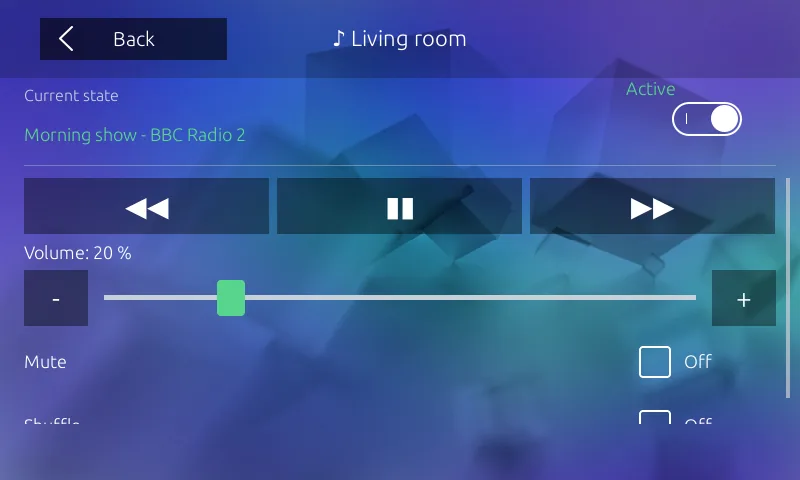
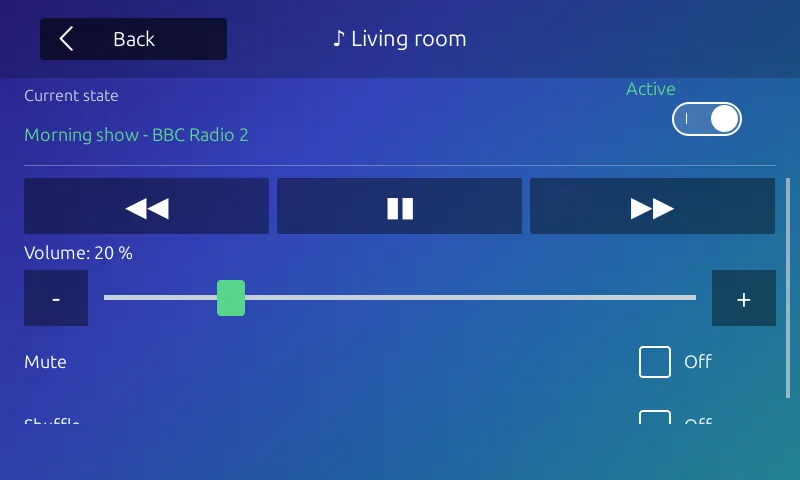
docs: render the display pictures on a neutral background without vendor files
The owner decided that the documentation shows only the integration's own
pages, rendered by us, with no firmware artwork in them.

The thirteen kept display pictures are new renders of this tree's pages:
applied by qml_patch.sh to a copy of the 1.7.19 skin and run on the
firmware's Qt 4.8 libraries under qemu-arm, English, 800x480, with the page
data built by the integration's dashboard code from example entities. In
the render copy of the skin, the wallpaper is replaced by a plain blue to
teal gradient generated for the render, and every skin graphic the pages
load (button and list backgrounds, switch track and knob, on/off marks,
arrows, key, loading ring, bottom bar) is replaced by a similar shape drawn
for the render; the fonts are the host's own Ubuntu Light and DejaVu Sans.
A syscall trace of the renders shows no other image or font file opened.
The Integration tab picture is cropped to the tab content, without the
vendor Settings frame.

Dropped, because they show vendor pages: the home page in both button
layouts (display-home-stock-en, display-c300x-dashboard-en) and the
vendor Generals tab (display-settings-tone-buttons-en). The README shows
the start page instead of the home page; display.md names the two home
page buttons in its introduction instead of picturing them.

Checked with the documentation tests, scripts/check_repo.py and ruff.
Nothing was seen on a station.

diff --git a/docs/display.md b/docs/display.md
@@ -5,14 +5,10 @@ tiles for your entities, an energy page, an agenda, departure checks, an Alarmo
 page and notices from automations. They are native station pages, not the
 Lovelace card or an embedded Home Assistant dashboard. Display pages run on
 firmware 1.7.x, 2.0.2 and 3.0.6
-([Display Patch on Firmware 3.0.6](#display-patch-on-firmware-306)).
-
-<table>
-  <tr>
-    <td align="center"><strong>Home page buttons: Stock</strong><br><img src="images/readme/display-home-stock-en.webp" alt="C300X home page in the Stock layout: the Alarm and Home Assistant buttons among the station's own buttons, wrapped into two rows" width="360"></td>
-    <td align="center"><strong>Home page buttons: Fixed side by side</strong><br><img src="images/readme/display-c300x-dashboard-en.webp" alt="C300X home page with the Alarm and Home Assistant buttons in fixed places next to each other after Settings" width="360"></td>
-  </tr>
-</table>
+([Display Patch on Firmware 3.0.6](#display-patch-on-firmware-306)). Two
+buttons on the station's home page, **Alarm** and **Home Assistant**, open
+them; where they sit is set with **Home page buttons**
+([Enable the Display Pages](#enable-the-display-pages)).
 
 Page and tile settings are stored in Home Assistant, and the display asks for
 them, so changing them writes nothing to the station. Entity changes reach the
@@ -527,12 +523,7 @@ station's **Settings** menu, below **Configuration**. **Status messages**,
 Display options need it and are greyed out while it cannot be reached. Only
 maintenance operations the agent has enabled are offered.
 
-<table>
-  <tr>
-    <td align="center"><strong>Integration tab</strong><br><img src="images/readme/display-settings-home-assistant-en.webp" alt="Station Settings, Integration tab: status block with Home Assistant, Address, Last contact, Integration and Agent, then the Display switches Status messages, Keep page open in standby and Page change; the Station section with SSH, Reboot station and Remove agent follows when scrolling" width="360"></td>
-    <td align="center"><strong>Generals: Tone buttons</strong><br><img src="images/readme/display-settings-tone-buttons-en.webp" alt="Station Settings, Generals tab with the Tone buttons switch; the tab list ends with Integration" width="360"></td>
-  </tr>
-</table>
+<p align="center"><img src="images/readme/display-settings-home-assistant-en.webp" alt="Content of the Integration tab: status block with Home Assistant, Address, Last contact, Integration and Agent, then the Display switches Status messages, Keep page open in standby and Page change; the Station section with SSH, Reboot station and Remove agent follows when scrolling" width="360"></p>
 
 The tab starts with a short status block:
 

diff --git a/README.md b/README.md
@@ -102,7 +102,7 @@ Details: [Live picture and talkback](docs/user-guide.md#live-picture-and-talkbac
 <table>
   <tr>
     <td align="center"><strong>Doorbell card</strong><br><img src="docs/images/readme/ha-doorbell-card-en.webp" alt="C300X Doorbell Call Card in Home Assistant dark mode with a saved visitor snapshot, play, call, door and light buttons" width="360"></td>
-    <td align="center"><strong>Station home page</strong><br><img src="docs/images/readme/display-home-stock-en.webp" alt="C300X home page with the station's own buttons and the added Alarm and Home Assistant buttons in two rows" width="360"></td>
+    <td align="center"><strong>Station display</strong><br><img src="docs/images/readme/display-start-en.webp" alt="Home Assistant start page on the station with status, weather and the favourites bar" width="360"></td>
   </tr>
 </table>
 <table>
@@ -114,7 +114,8 @@ Details: [Live picture and talkback](docs/user-guide.md#live-picture-and-talkbac
 </table>
 
 The card is a capture from Home Assistant; the station pages are renders of
-the display pages with example values, see [legal notes](docs/legal.md#no-firmware-or-apk-payloads).
+the integration's own display pages with example values on a plain background
+of our own, see [legal notes](docs/legal.md#no-firmware-or-apk-payloads).
 The card shows an earlier visitor image. Entities and pages depend on the
 enabled options.
 
